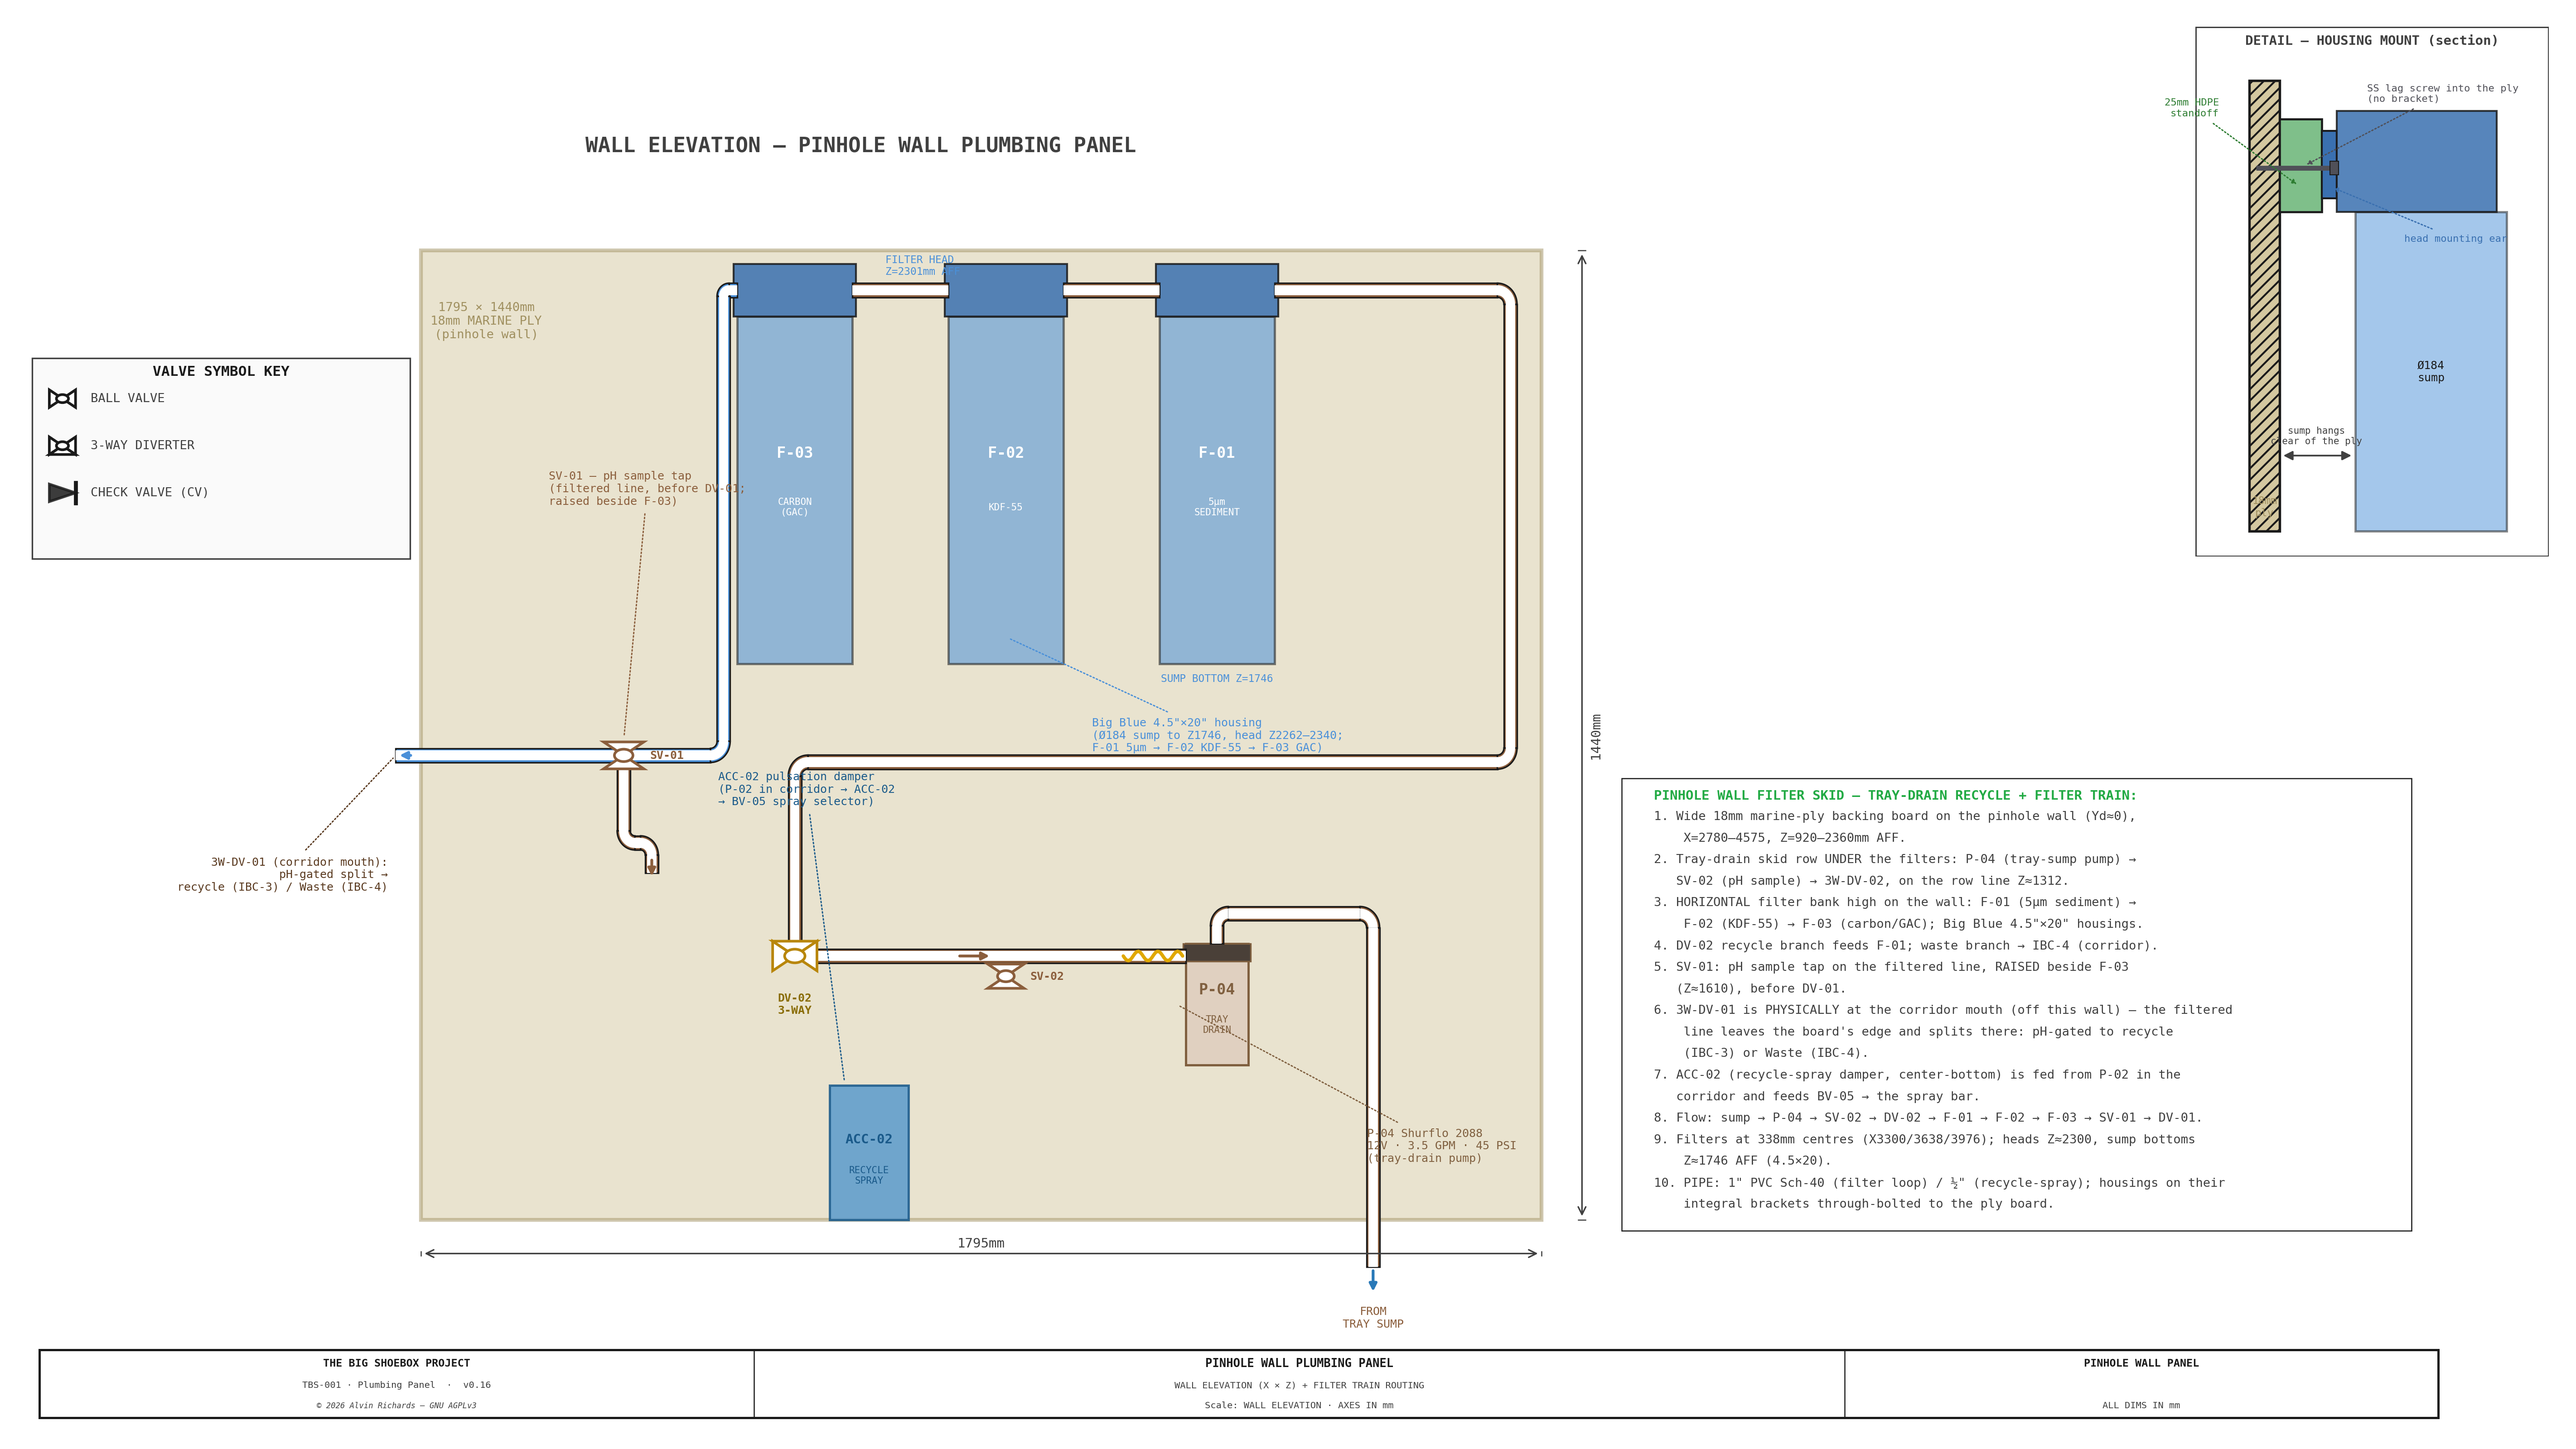
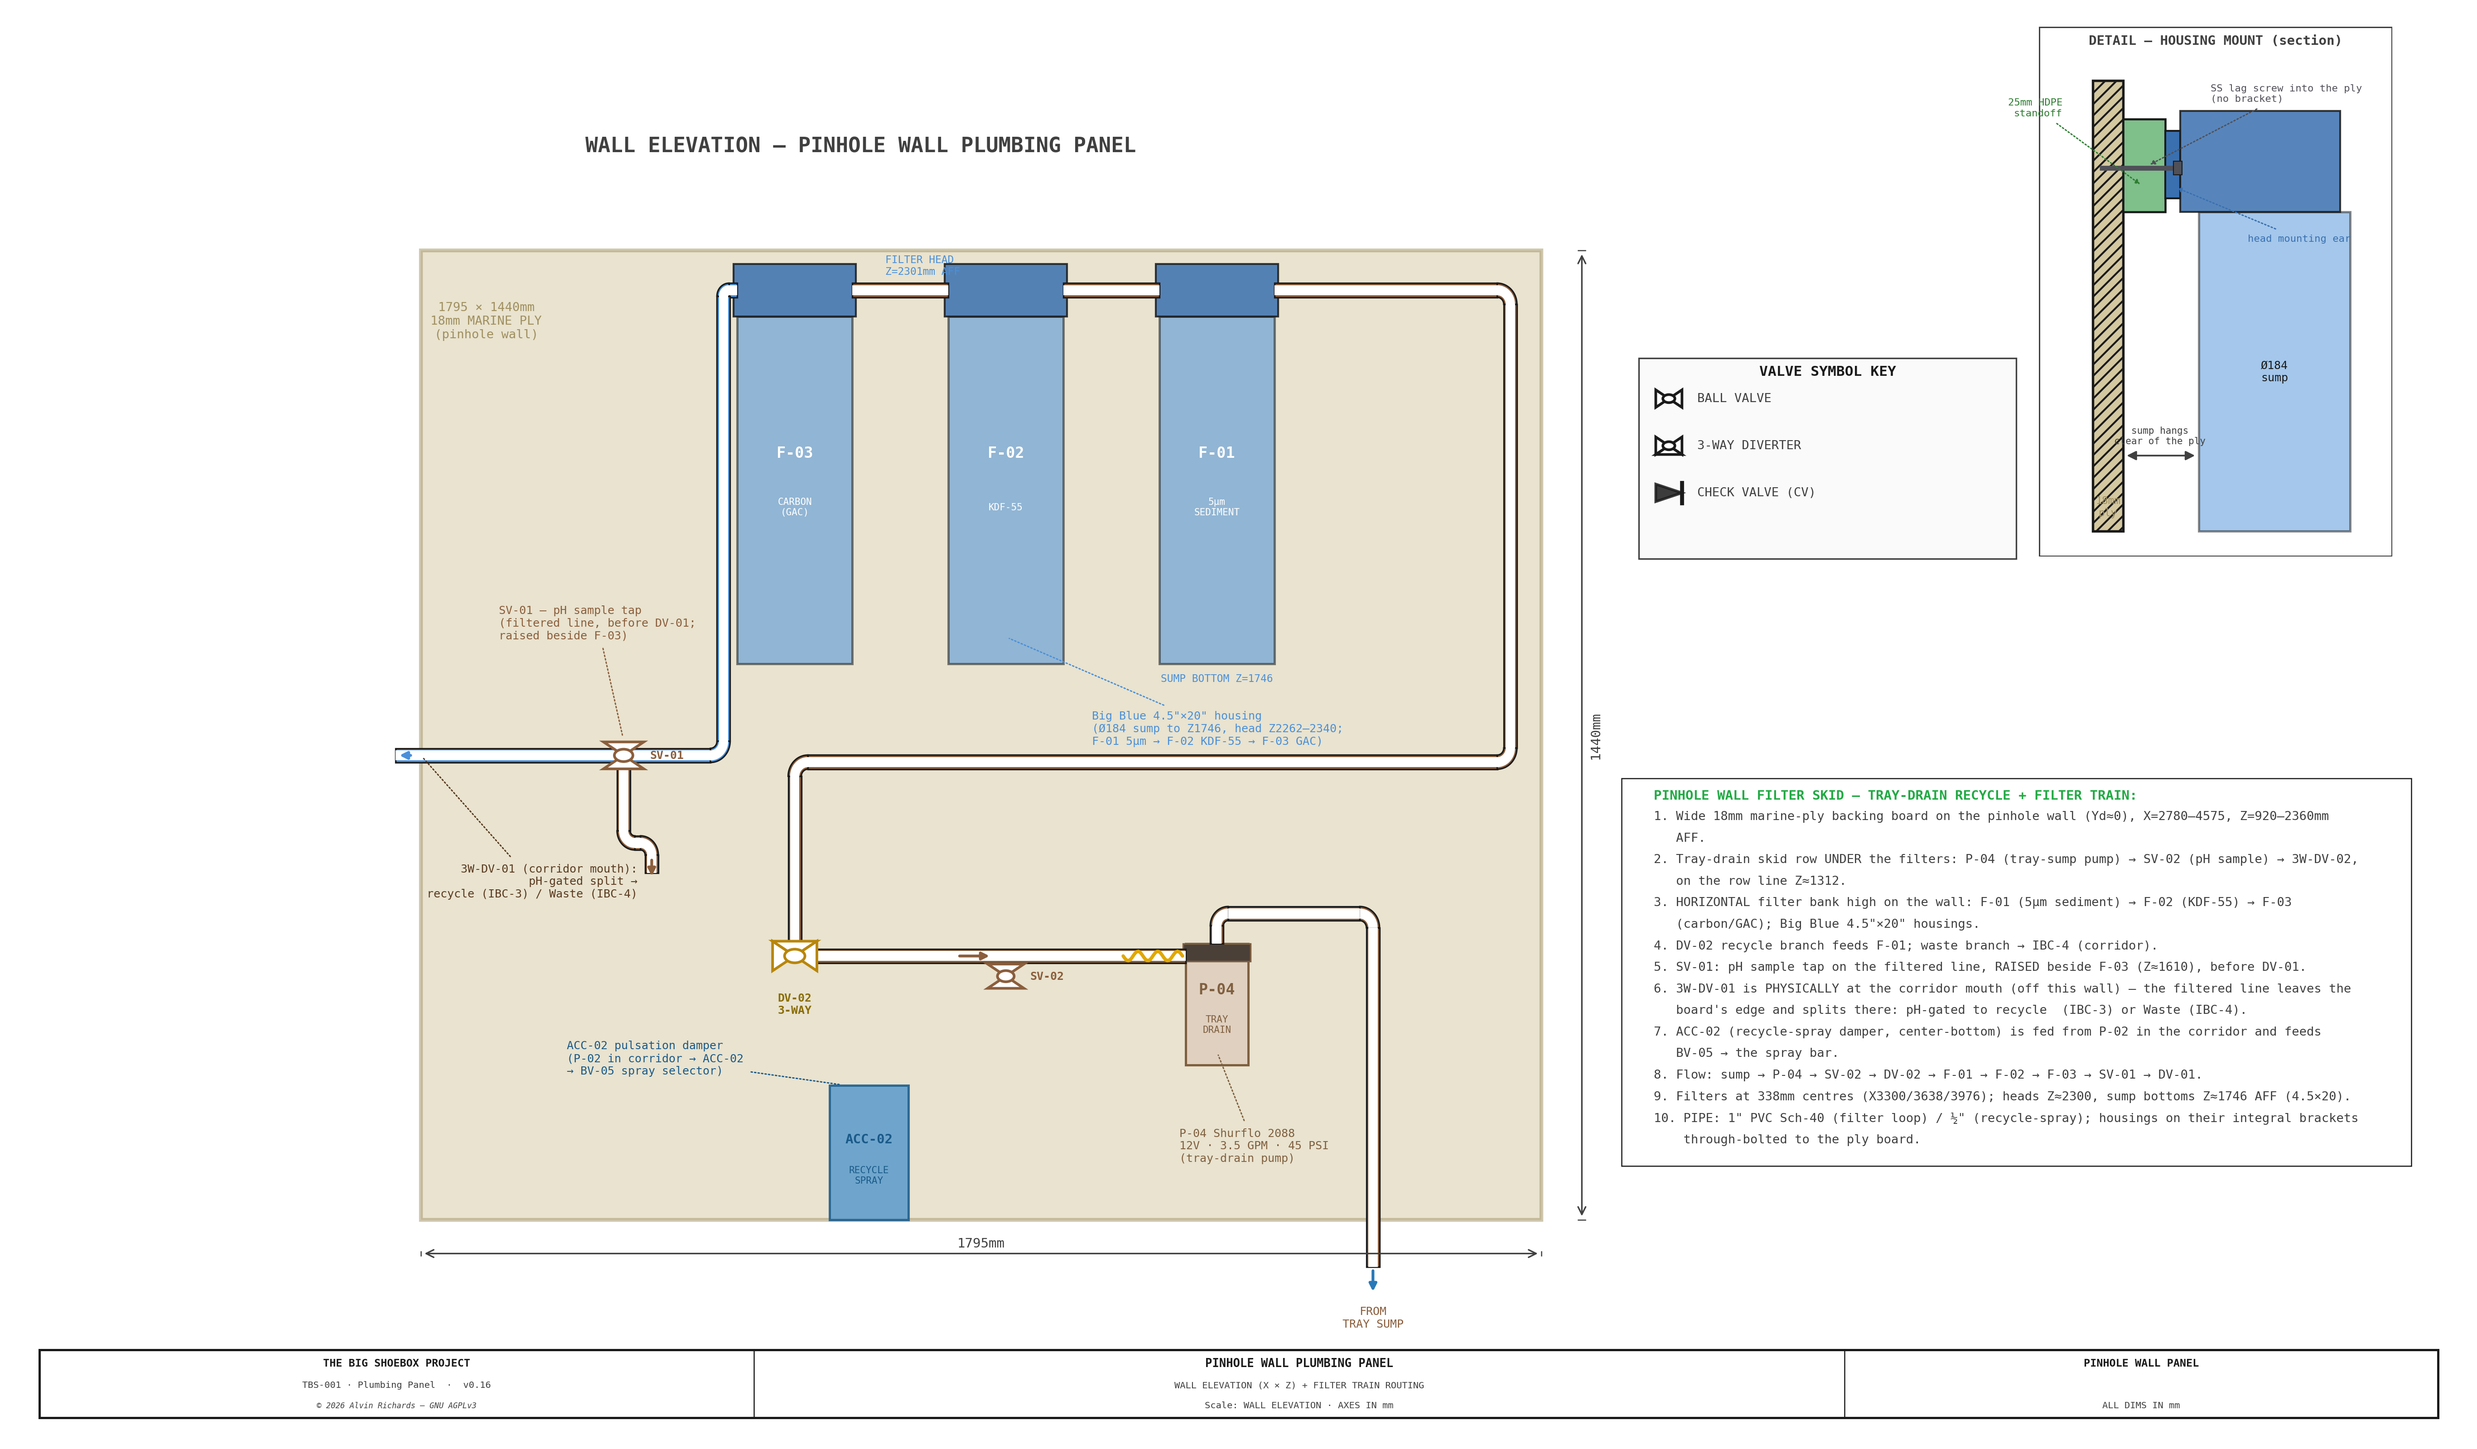
Tidy labels

diff --git a/src/generators/generate_panel_layout.py b/src/generators/generate_panel_layout.py
@@ -773,7 +773,7 @@ def draw_pinhole_panel():
     pw_rect(PWP_ACC2_X - 63, PWP_ACC2_Z0, 126, 200, C_ACC, C_BLUE_EC, lw=1.2, zorder=6, alpha=0.85)
     pw_text(PWP_ACC2_X, PWP_ACC2_Z0 + 120, "ACC-02", ha="center", va="center", fontsize=7, color=C_BLUE_EC, fontweight="bold", zorder=8)
     pw_text(PWP_ACC2_X, PWP_ACC2_Z0 + 66, "RECYCLE\nSPRAY", ha="center", va="center", fontsize=5, color=C_BLUE_EC, zorder=8)
-    leader(ax_p, pwx(PWP_ACC2_X) - 24, pwz(PWP_ACC2_Z0 + 200), pwx(PWP_ACC2_X) - 150, pwz(1560),
+    leader(ax_p, pwx(PWP_ACC2_X) - 24, pwz(PWP_ACC2_Z0 + 200), pwx(PWP_ACC2_X) - 300, pwz(1160),
            "ACC-02 pulsation damper\n(P-02 in corridor → ACC-02\n→ BV-05 spray selector)",
            fs=6, color=C_BLUE_EC, ha="left", va="center", font=FONT)
 
@@ -822,7 +822,7 @@ def draw_pinhole_panel():
     pw_pipe([SV01_X, SV01_X, SV01_X - 45, SV01_X - 45],
             [SV01_Z - 20, SV01_Z - 130, SV01_Z - 130, SV01_Z - 175], C_BROWN, zorder=Z_BROWN)
     pw_arrow(SV01_X - 45, SV01_Z - 150, SV01_X - 45, SV01_Z - 185, C_BROWN)
-    leader(ax_p, pwx(SV01_X), pwz(SV01_Z) + 22, pwx(4370), pwz(1980),
+    leader(ax_p, pwx(SV01_X), pwz(SV01_Z) + 22, pwx(4450), pwz(1780),
            "SV-01 — pH sample tap\n(filtered line, before DV-01;\n"
            "raised beside F-03)",
            fs=6, color=C_BROWN, ha="left", va="bottom", font=FONT)
@@ -832,7 +832,7 @@ def draw_pinhole_panel():
     DV01_EDGE_X = BD_XR + 40            # just past the board's (mirrored) left edge
     pw_pipe([SV01_X, DV01_EDGE_X], [SV01_Z, SV01_Z], C_FILTER, zorder=Z_BROWN)
     pw_arrow(DV01_EDGE_X - 30, SV01_Z, DV01_EDGE_X, SV01_Z, C_FILTER)
-    leader(ax_p, pwx(DV01_EDGE_X), pwz(SV01_Z), pwx(DV01_EDGE_X) - 8, pwz(SV01_Z) - 150,
+    leader(ax_p, pwx(DV01_EDGE_X) + 25, pwz(SV01_Z), pwx(DV01_EDGE_X) + 240, pwz(SV01_Z) - 160,
            "3W-DV-01 (corridor mouth):\npH-gated split →\n"
            "recycle (IBC-3) / Waste (IBC-4)",
            fs=6, color=C_BROWN_EC, ha="right", va="top", font=FONT)
@@ -851,10 +851,10 @@ def draw_pinhole_panel():
               fontsize=5.5, color=C_FILTER, zorder=10, **FONT)
 
     # ── LEADERS ─────────────────────────────────────────────────────
-    leader(ax_p, pwx(PWP_FILTER_X1) - 40, pwz(PWP_SROW_Z0 + 90), pwx(3060), pwz(1030),
+    leader(ax_p, pwx(PWP_FILTER_X1), pwz(PWP_SROW_Z0 + 20), pwx(3360), pwz(1030),
            "P-04 Shurflo 2088\n12V · 3.5 GPM · 45 PSI\n(tray-drain pump)",
            fs=6, color=C_PUMP_EC, ha="left", va="center", font=FONT)
-    leader(ax_p, pwx(F2_CX), pwz(SUMP_ZB + 40), pwx(3500), pwz(1640),
+    leader(ax_p, pwx(F2_CX), pwz(SUMP_ZB + 40), pwx(3500), pwz(1650),
            "Big Blue 4.5\"×20\" housing\n(Ø184 sump to Z1746, head Z2262–2340;\n"
            "F-01 5µm → F-02 KDF-55 → F-03 GAC)",
            fs=6, color=C_FILTER, ha="left", va="center", font=FONT)
@@ -862,31 +862,31 @@ def draw_pinhole_panel():
     # ── NOTES ───────────────────────────────────────────────────────
     notes = [
         "PINHOLE WALL FILTER SKID — TRAY-DRAIN RECYCLE + FILTER TRAIN:",
-        "1. Wide 18mm marine-ply backing board on the pinhole wall (Yd≈0),",
-        "    X=2780–4575, Z=920–2360mm AFF.",
-        "2. Tray-drain skid row UNDER the filters: P-04 (tray-sump pump) →",
-        "   SV-02 (pH sample) → 3W-DV-02, on the row line Z≈1312.",
-        "3. HORIZONTAL filter bank high on the wall: F-01 (5µm sediment) →",
-        "    F-02 (KDF-55) → F-03 (carbon/GAC); Big Blue 4.5\"×20\" housings.",
+        "1. Wide 18mm marine-ply backing board on the pinhole wall (Yd≈0),"
+        " X=2780–4575, Z=920–2360mm AFF.",
+        "2. Tray-drain skid row UNDER the filters: P-04 (tray-sump pump) →"
+        " SV-02 (pH sample) → 3W-DV-02, on the row line Z≈1312.",
+        "3. HORIZONTAL filter bank high on the wall: F-01 (5µm sediment) →"
+        " F-02 (KDF-55) → F-03 (carbon/GAC); Big Blue 4.5\"×20\" housings.",
         "4. DV-02 recycle branch feeds F-01; waste branch → IBC-4 (corridor).",
-        "5. SV-01: pH sample tap on the filtered line, RAISED beside F-03",
-        "   (Z≈1610), before DV-01.",
-        "6. 3W-DV-01 is PHYSICALLY at the corridor mouth (off this wall) — the filtered",
-        "    line leaves the board's edge and splits there: pH-gated to recycle",
-        "    (IBC-3) or Waste (IBC-4).",
-        "7. ACC-02 (recycle-spray damper, center-bottom) is fed from P-02 in the",
-        "   corridor and feeds BV-05 → the spray bar.",
+        "5. SV-01: pH sample tap on the filtered line, RAISED beside F-03"
+        " (Z≈1610), before DV-01.",
+        "6. 3W-DV-01 is PHYSICALLY at the corridor mouth (off this wall) — the filtered"
+        " line leaves the board's edge and splits there: pH-gated to recycle"
+        "  (IBC-3) or Waste (IBC-4).",
+        "7. ACC-02 (recycle-spray damper, center-bottom) is fed from P-02 in the"
+        " corridor and feeds BV-05 → the spray bar.",
         "8. Flow: sump → P-04 → SV-02 → DV-02 → F-01 → F-02 → F-03 → SV-01 → DV-01.",
-        "9. Filters at 338mm centres (X3300/3638/3976); heads Z≈2300, sump bottoms",
-        "    Z≈1746 AFF (4.5×20).",
-        "10. PIPE: 1\" PVC Sch-40 (filter loop) / ½\" (recycle-spray); housings on their",
-        "    integral brackets through-bolted to the ply board.",
+        "9. Filters at 338mm centres (X3300/3638/3976); heads Z≈2300, sump bottoms"
+        " Z≈1746 AFF (4.5×20).",
+        "10. PIPE: 1\" PVC Sch-40 (filter loop) / ½\" (recycle-spray); housings on their"
+        " integral brackets through-bolted to the ply board.",
     ]
     draw_notes(ax_p, notes, pwx(2600), pwz(1560), spacing=32,
-               fs=6.5, width=720, color=C_DIM, title_color=C_NEW, font=FONT)
+               fs=6.5, wrap=95, width=720, color=C_DIM, title_color=C_NEW, font=FONT)
 
     # ── SYMBOL KEY (clear left margin strip, X4500–5060) ────────────
-    draw_symbol_key(ax_p, 5, pwz(2200), r=13, row=70, fs=6.5, w=375)
+    draw_symbol_key(ax_p, 1600, pwz(2200), r=13, row=70, fs=6.5, w=375)
 
     # ── TITLE BLOCK ─────────────────────────────────────────────────
     title_block(ax_p, "PINHOLE WALL PANEL",
@@ -900,7 +900,7 @@ def draw_pinhole_panel():
     #   Replaces the retired steel U-bracket: the head's own mounting ear lag-screws
     #   through a 25mm HDPE standoff straight into the 18mm ply; the Ø184 sump hangs
     #   below and clears the wall.
-    axd = fig.add_axes([0.775, 0.60, 0.20, 0.30])
+    axd = fig.add_axes([0.725, 0.60, 0.20, 0.30])
     axd.set_facecolor("white")
     axd.set_xlim(-50, 160); axd.set_ylim(-165, 150); axd.set_aspect("equal"); axd.axis("off")
     C_HDPE = "#7FBF8A"
